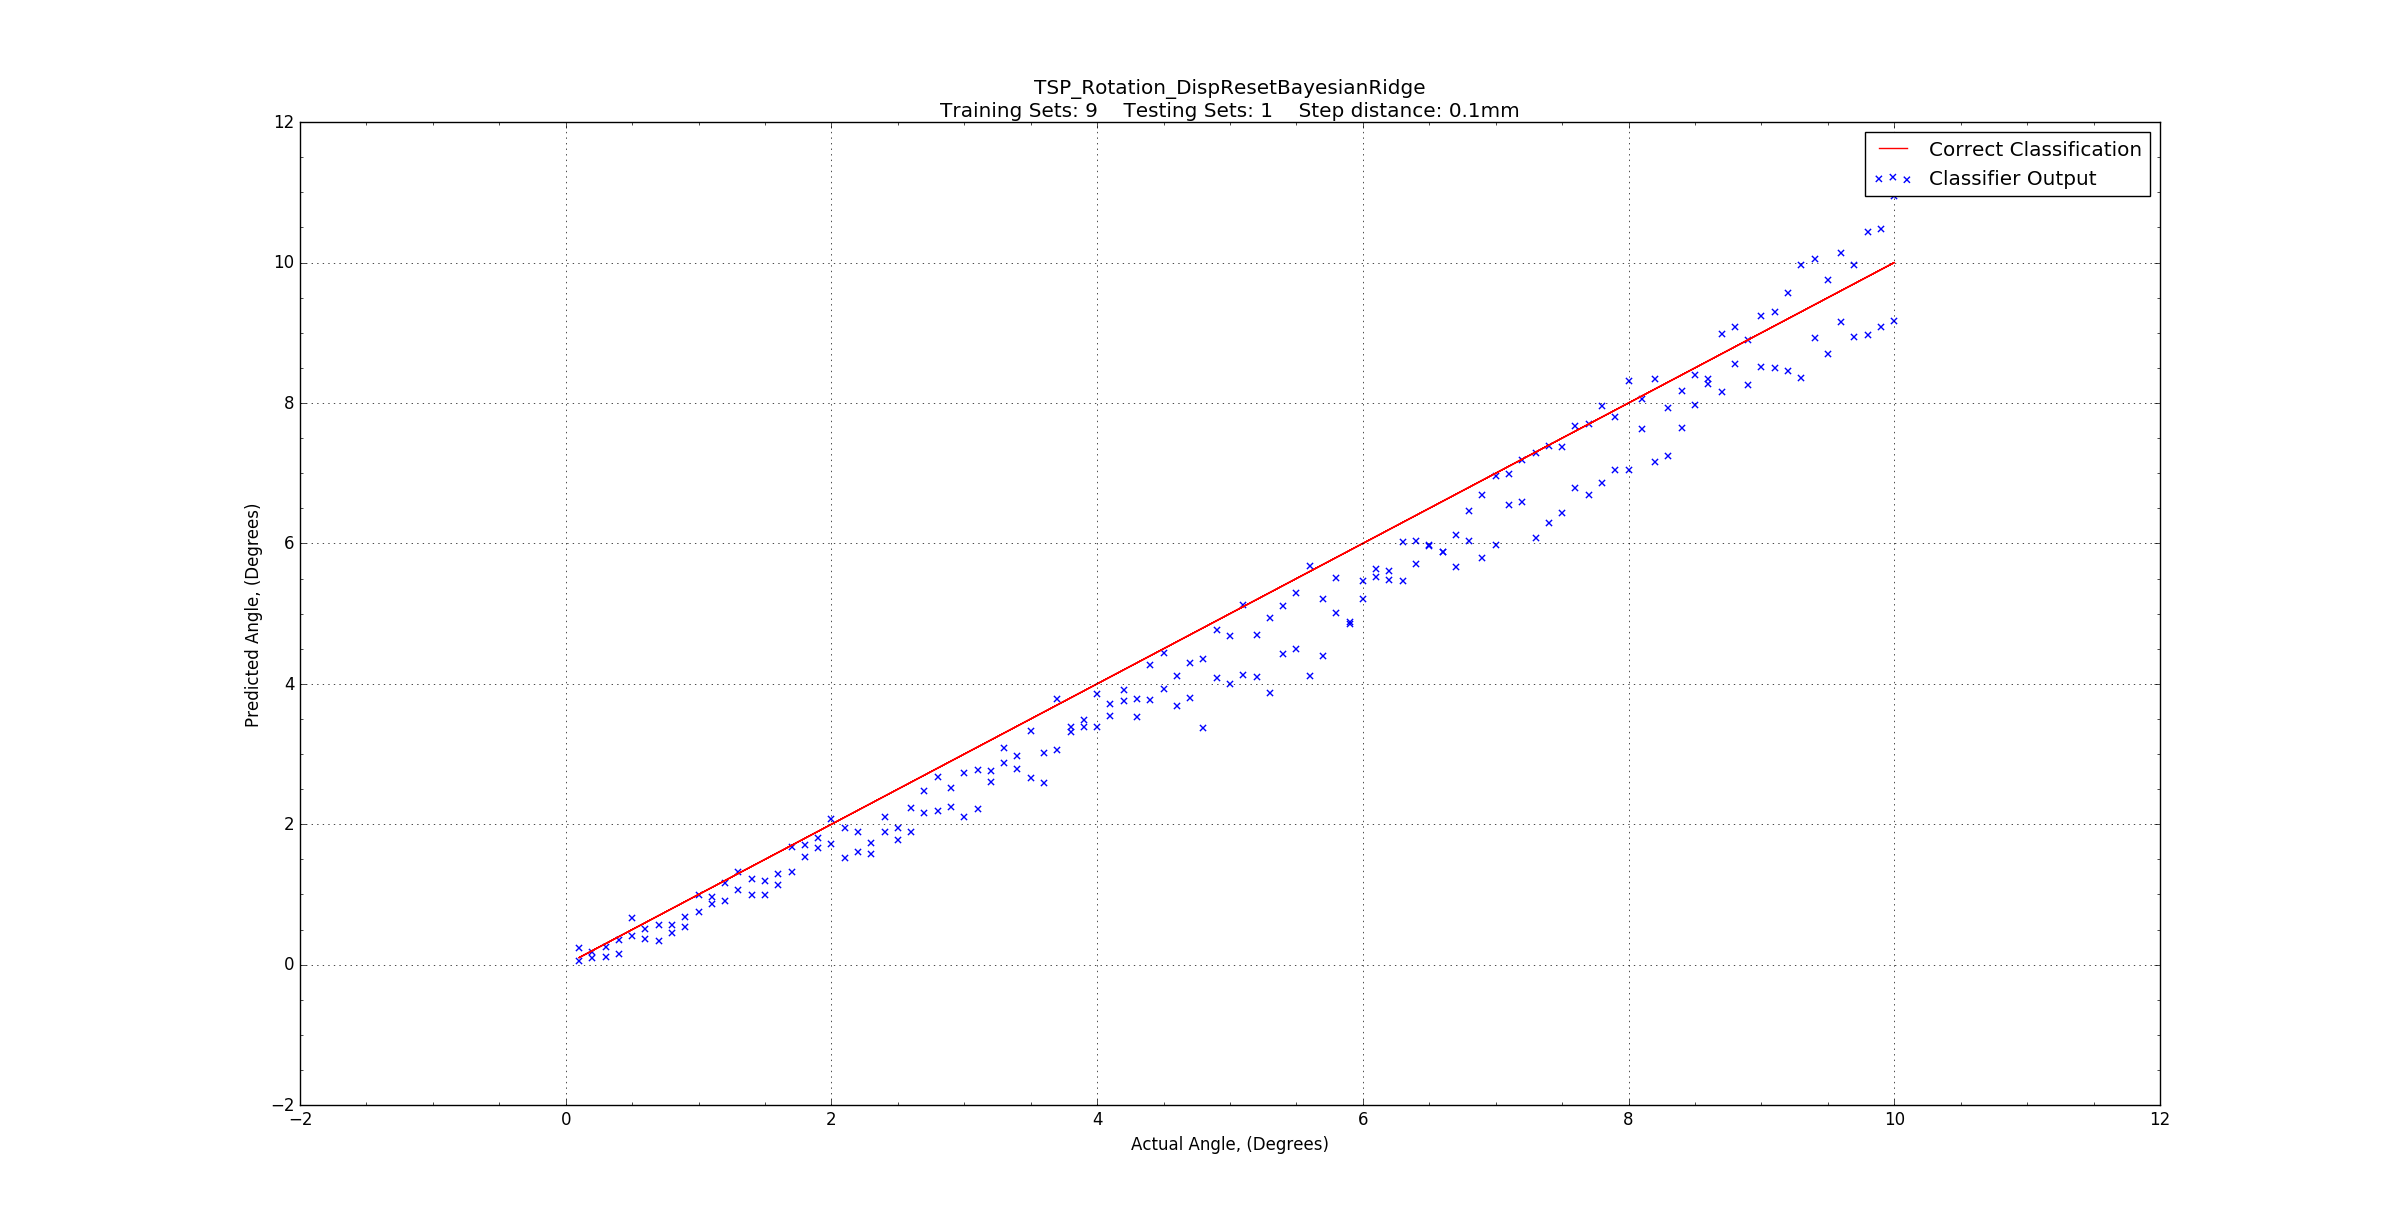
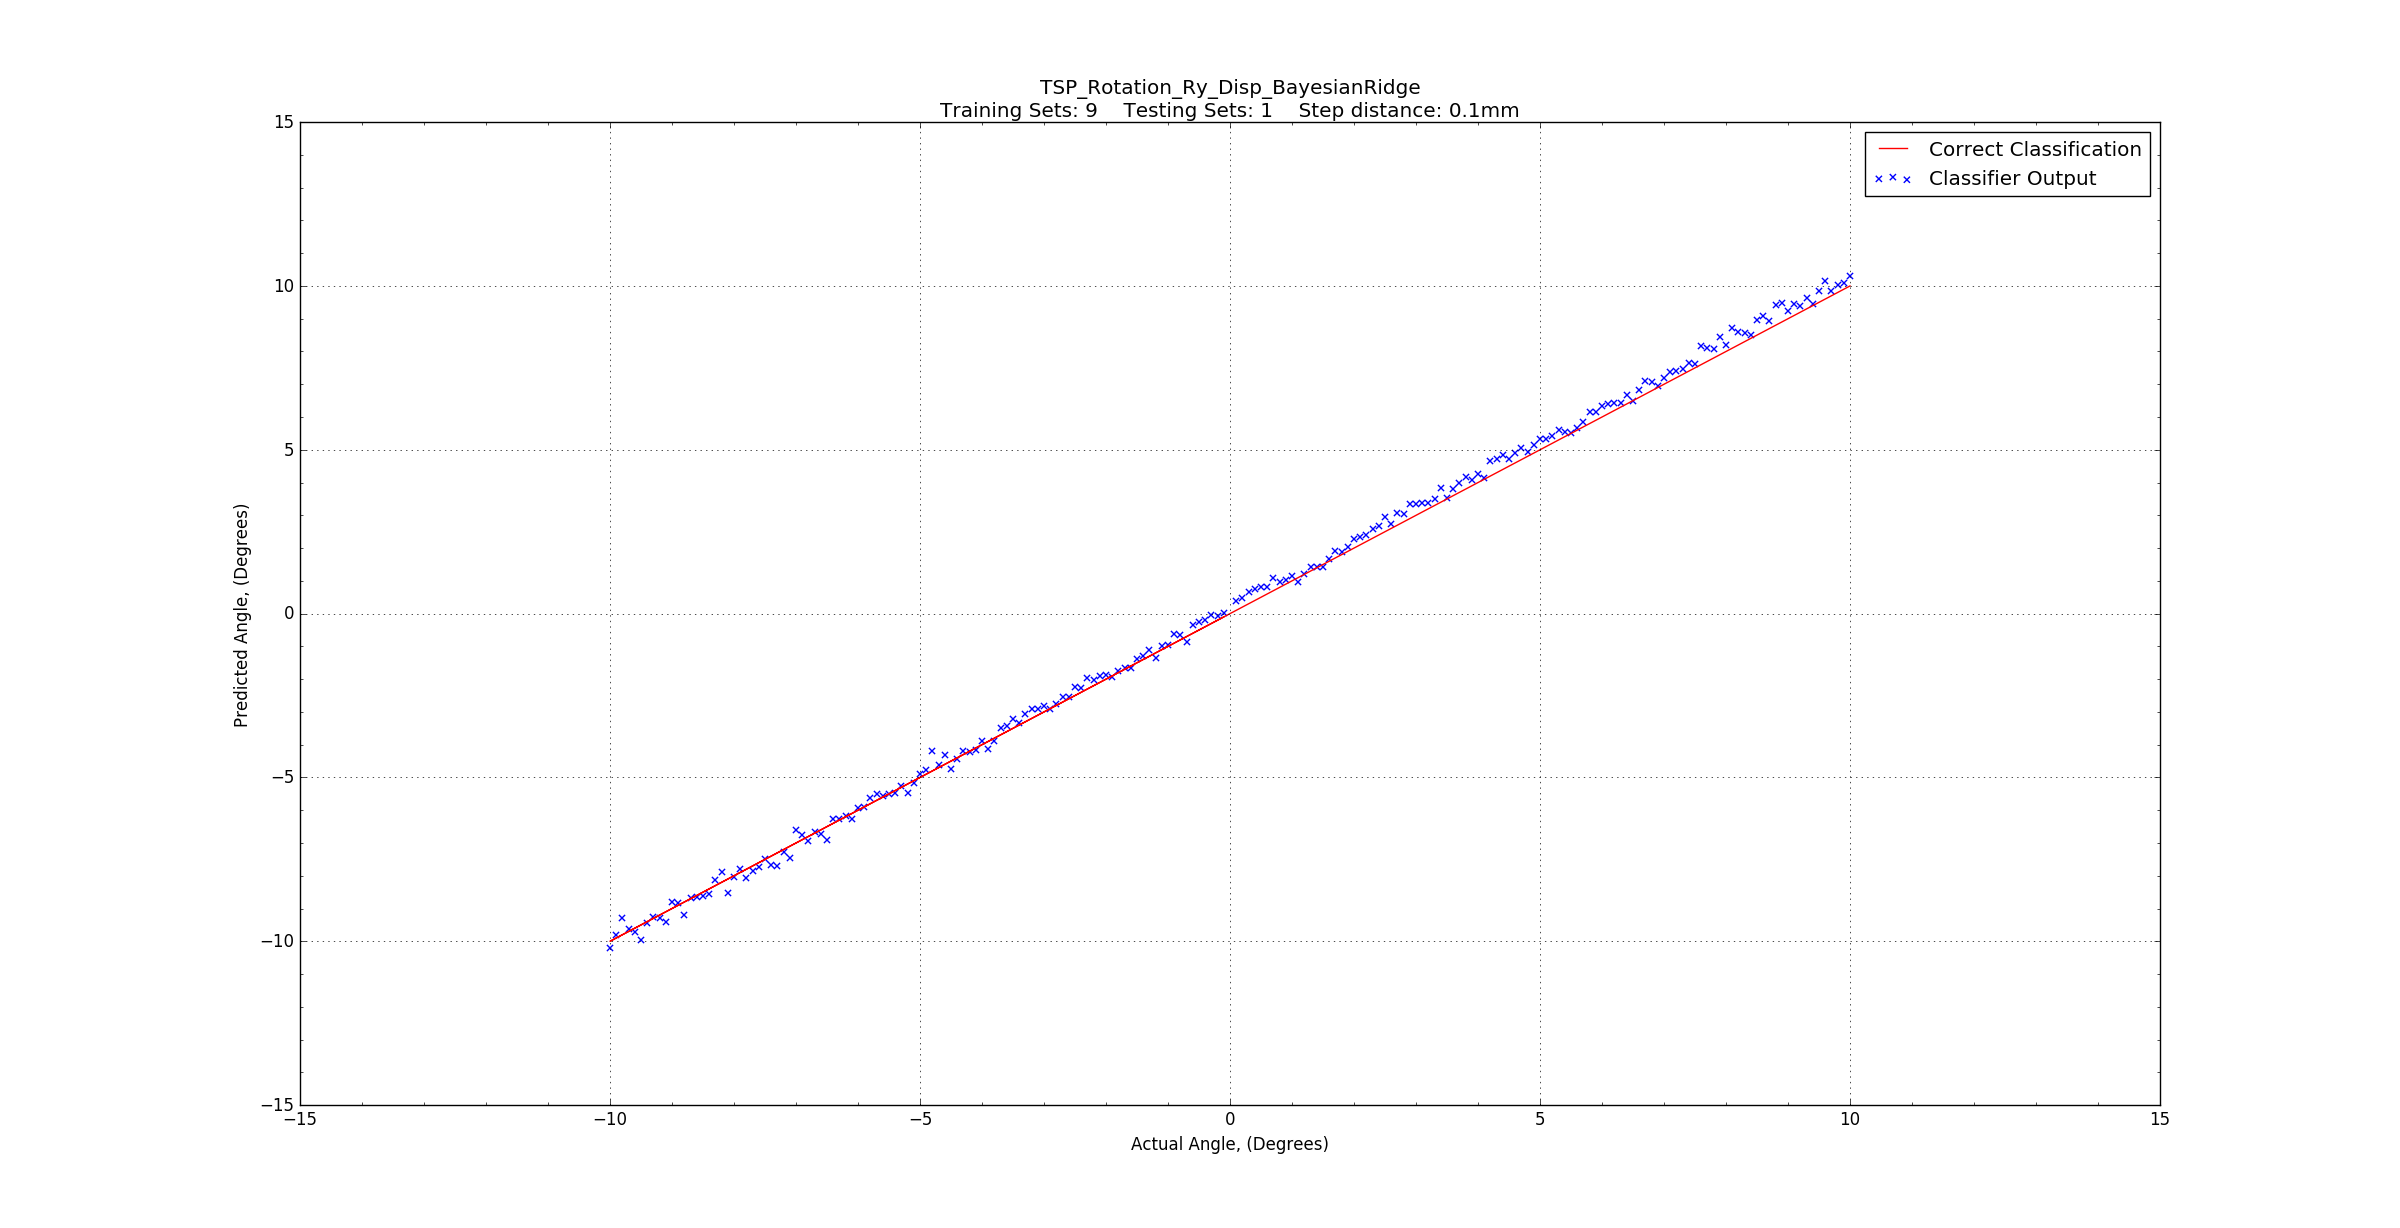
Getting images for powerpoint

diff --git a/ResolutionInvestigation/MachineLearning/TSP_PinDataRotationTestBayesianClassifier.py b/ResolutionInvestigation/MachineLearning/TSP_PinDataRotationTestBayesianClassifier.py
@@ -1,19 +1,19 @@
-import sys, os
+import os, sys
 sys.path.append(os.path.dirname(os.path.realpath(__file__)) + "/../../libraries/MachineVisionAndmore")
-from Pillow import rw
+from PillowEdited import *
+import cv2
 import numpy as np
+import math
 import time
+import copy
 from matplotlib import pyplot as plt
-from sklearn import linear_model
-from operator import itemgetter
-from itertools import groupby
+from sklearn.naive_bayes import GaussianNB
 np.set_printoptions(precision=3, suppress=True, linewidth = 150)
 
 def makedir(DIR):
     if not os.path.exists(DIR):
         os.makedirs(DIR)
         time.sleep(0.5)
-
 
 ProgramsData = os.path.join("..", "..", "..", "Python", "TSP_Testing", "TSP_Testing", "ProgramsData")
 ztool        = 167.5
@@ -37,8 +37,8 @@ for single in range(2):
     for set_ in range(10, 11): # for set_ in range(2, Sets):
         SaveDataLine  = []
         for step in range(1, 2): # for step in range(1, Sets):
-            gnb = linear_model.BayesianRidge()
-            train, test, labels1, labels2, labels3, labels4, label1, label2, label3, label4 = [], [], [], [], [], [], [], [], [], []
+            gnb = GaussianNB()
+            train, test, labels1, labels2, labels3, label1, label2, label3 = [], [], [], [], [], [], [], []
             for _, values in enumerate(data[['Displacement', 'DifferenceX', 'DifferenceY', 'Bearing', 'X', 'Y', 'Z', 'Rx', 'Ry', 'Rz', 'DataSet', 'State', 'Type', 'Sign']]):
                 if values['Type'][0] == 'Ry':
                     if np.count_nonzero(values['State']) > 4:
@@ -50,8 +50,7 @@ for single in range(2):
                                     train.append(np.concatenate(((values[names[Column1]]*10).astype(int), (values[names[Column2]]*10).astype(int))))
                                 labels1.append(values['Type'][0])
                                 labels2.append(values['Sign'][0])
-                                labels3.append(str(int(round((data[values['Type'][0]][0][0] - abs(values[values['Type'][0]][0]))*10, 0))) + values['Type'][0] + values['Sign'][0])
-                                labels4.append(int(round((data[values['Type'][0]][0][0] - abs(values[values['Type'][0]][0]))*10, 0)))
+                                labels3.append(str(int(round((data[values['Type'][0]][0][0] - abs(values[values['Type'][0]][0]))*10, 0)))+values['Type'][0]+values['Sign'][0])
                             else:
                                 if single:
                                     test.append(np.concatenate(((values[names[Column0]]*10).astype(int), )))
@@ -59,8 +58,7 @@ for single in range(2):
                                     test.append(np.concatenate(((values[names[Column1]]*10).astype(int), (values[names[Column2]]*10).astype(int))))
                                 label1.append(values['Type'][0])
                                 label2.append(values['Sign'][0])
-                                label3.append(str(int(round((data[values['Type'][0]][0][0] - abs(values[values['Type'][0]][0]))*10, 0))) + values['Type'][0] + values['Sign'][0])
-                                label4.append(int(round((data[values['Type'][0]][0][0] - abs(values[values['Type'][0]][0]))*10, 0)))
+                                label3.append(str(int(round((data[values['Type'][0]][0][0] - abs(values[values['Type'][0]][0]))*10, 0)))+values['Type'][0]+values['Sign'][0])
             print "\nSetting up train and test sets."
             train   = np.array(train)
             test    = np.array(test)
@@ -70,27 +68,15 @@ for single in range(2):
             label2  = np.array(label2)
             labels3 = np.array(labels3)
             label3  = np.array(label3)
-            labels4 = np.array(labels4)
-            label4  = np.array(label4)
             print len(train), len(test)
             print "Predicting the Rotation"
-            y_pred3  = gnb.fit(train, labels4).predict(test)
-            y_pred3z = zip(y_pred3, label4)
-
-            predictions        = sorted(y_pred3z, key=itemgetter(1))
-            # Group the predictions based on the actual depth
-            groupedPredictions = np.array([list(j) for i,j in groupby(map(list,predictions), itemgetter(1))])
-            # Calculate the mean and mad of the difference between the values
-            madPredictions     = np.array([np.mean(abs(np.subtract(abs(np.subtract([c[0] for c in b], [c[1] for c in b])), np.mean(abs(np.subtract([c[0] for c in b], [c[1] for c in b])))))) for b in groupedPredictions])
-            meanPredictions    = np.array([np.mean(abs(np.subtract([c[0] for c in b], [c[1] for c in b]))) for b in groupedPredictions])
-            stdPredictions     = np.array([np.std(abs(np.subtract([c[0] for c in b], [c[1] for c in b]))) for b in groupedPredictions])
-            xValues = [float(b[0][1])/10 for b in groupedPredictions]
-
+            y_pred3  = gnb.fit(train, labels3).predict(test)
+            y_pred3z = zip([i[:-3] for i in y_pred3], [i[:-3] for i in label3], label1, label2)
             print "Trained Classifier"
             # print("Number of mislabeled points out of a total %d points : %d" % (test.shape[0], np.array(label3 != y_pred3).sum()))
-            print "Score = {0}%, {1}mm, #{2}".format(round(gnb.score(test,label4)*100, 3), float(step)/10, set_-1)
+            print "Score = {0}%, {1}mm, #{2}".format(round(gnb.score(test,label3)*100, 3), float(step)/10, set_-1)
             # print y_pred3z
-            SaveDataLine.append(gnb.score(test,label4))
+            SaveDataLine.append(gnb.score(test,label3))
             gnb = False
         SaveDataArray.append(SaveDataLine)
     # if single:
@@ -98,16 +84,16 @@ for single in range(2):
     # else:
     #     Name = "TSP_Rotation_DistanceX_and_DistanceY"
     if single:
-        Name = "TSP_Rotation_Ry_Disp_BayesianRidge"
+        Name = "TSP_Rotation_Ry_Disp_BayesianClassifier"
     else:
-        Name = "TSP_Rotation_Ry_DistX_DistY_BayesianRidge"
+        Name = "TSP_Rotation_Ry_DistX_DistY_BayesianClassifier"
     # if single:
     #     Name = "TSP_Rotation_Displacement_Otsu"
     # else:
     #     Name = "TSP_Rotation_DistanceX_DistanceY_Otsu"
     print os.path.join(directory, Name)
     if savingtext:
-        rw.writeList2File(os.path.join(directory, Name + ".txt"), SaveDataArray)
+        rw().writeList2File(os.path.join(directory, Name + ".txt"), SaveDataArray)
     print SaveDataArray
 
     if savingGraph:
@@ -115,23 +101,24 @@ for single in range(2):
         ax  = plt.subplot(1,1,1)
         plt.title(Name + '\nTraining Sets: {0}    Testing Sets: {1}    Step distance: {2}mm'.format(set_-1, Sets-set_, float(step)/10))
         plt.xlabel("Actual Angle, (Degrees)")
-        # plt.ylabel("Angular Displacement, (Degrees)")
         plt.ylabel("Predicted Angle, (Degrees)")
-        plt.minorticks_on()
+
         x1                = [float(i[1])/10 for i in y_pred3z]
-        y1                = [float(i[0])/10 for i in y_pred3z]
-        labels4           = [float(i)/10 for i in label4]
-        # toMatlab          = zip(x1, y1, labels4)
-        best_fit          = plt.plot(labels4, labels4, 'r-', label="Correct Classification")
+        y1                = [float(i[:-3])/10 for i in y_pred3]
+        labels3           = [float(i[:-3])/10 for i in label3]
+        toMatlab          = zip(x1, y1, labels3)
+        best_fit          = plt.plot(labels3, labels3, 'r-', label="Correct Classification")
         Classifier_Output = plt.scatter(x1, y1, c='blue', marker="x", label="Classifier Output")
-        # MAD  = plt.plot(xValues, madPredictions, label="Deviation of the data from the mean")
-        # mean = plt.plot(xValues, meanPredictions, label="Mean difference between actual and predicted")
         handles, labels   = ax.get_legend_handles_labels()
-        # rw.writeList2File(os.path.join(directory, Name + "_ML.txt"), toMatlab)
+        # rw().writeList2File(os.path.join(directory, Name + "_ML.txt"), toMatlab)
         # print "Saved for Matlab"
         # plt.annotate('Rotation Y', xy=(-5, -4), xytext=(-10, 0), arrowprops=dict(facecolor='black', shrink=0.2))
         # plt.annotate('Rotation X', xy=(5, 6), xytext=(0, 10), arrowprops=dict(facecolor='black', shrink=0.2))
-        plt.legend(handles, labels, loc=1)
+        plt.legend(handles, labels, loc=4)
         plt.grid()
-        # plt.savefig(os.path.join(directory, Name + '.png'), dpi=None, facecolor='w', edgecolor='w', orientation='portrait', papertype=None, format=None, transparent=False, bbox_inches=None, pad_inches=0.1, frameon=None)
+        # plt.savefig(os.path.join(Name + '.png'), dpi=None, facecolor='w', edgecolor='w', orientation='portrait', papertype=None, format=None, transparent=False, bbox_inches=None, pad_inches=0.1, frameon=None)
         plt.show()
+
+
+
+
